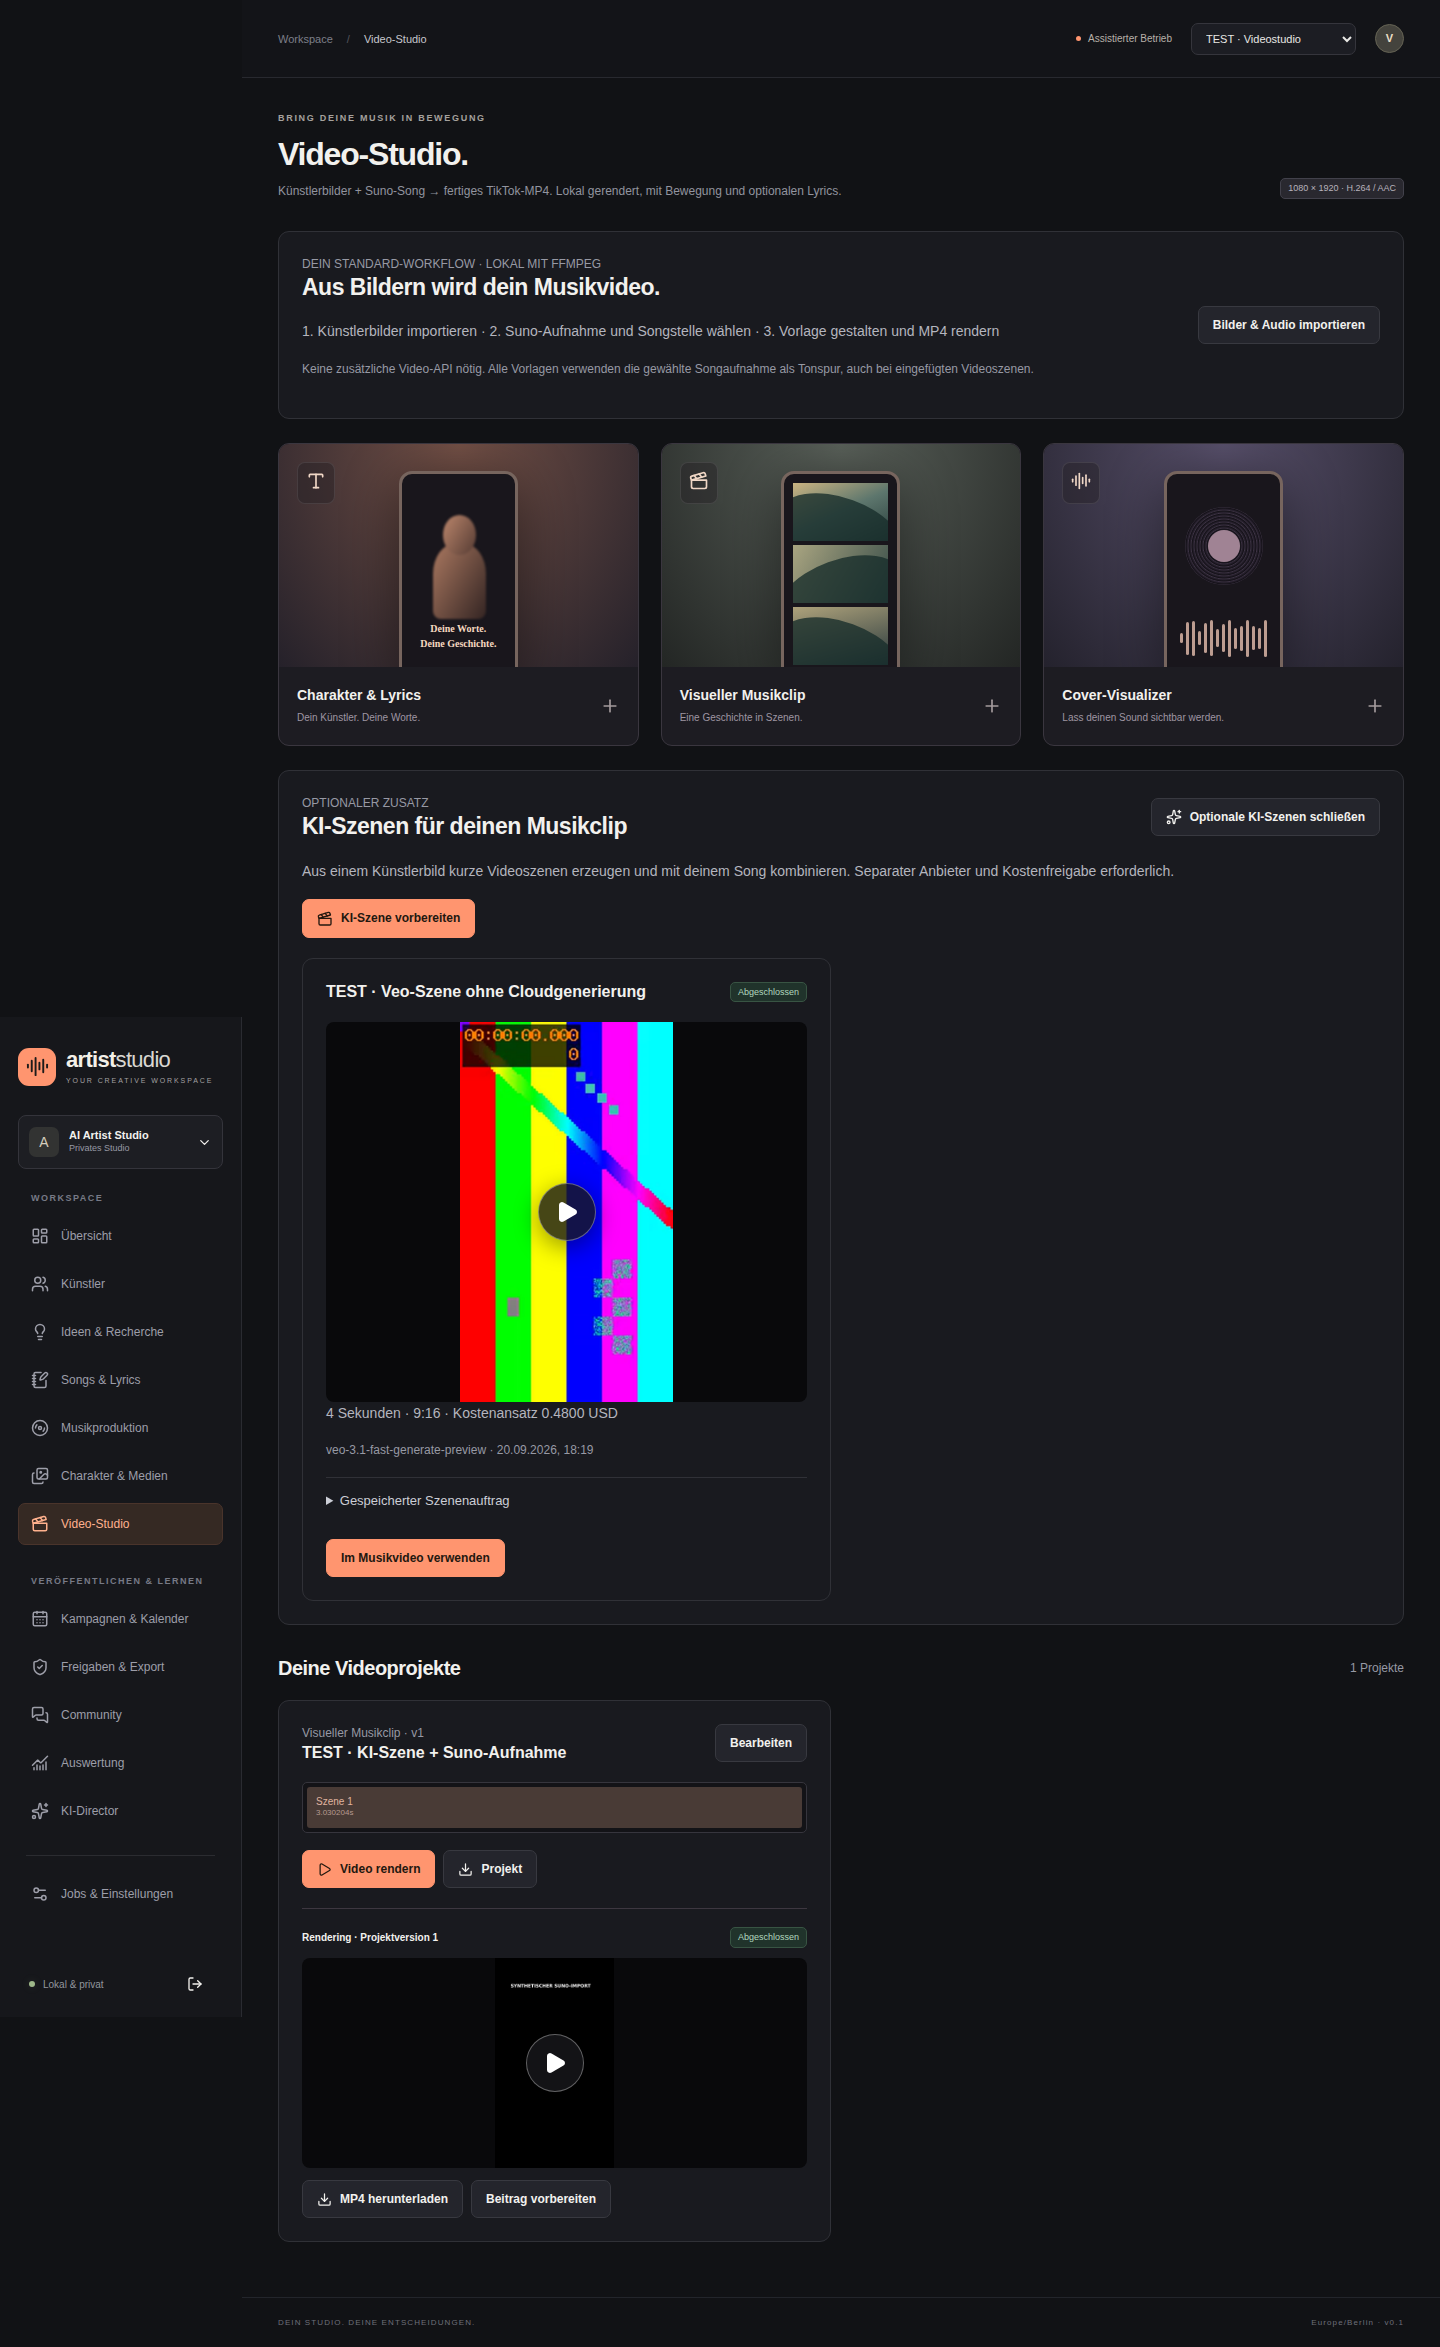
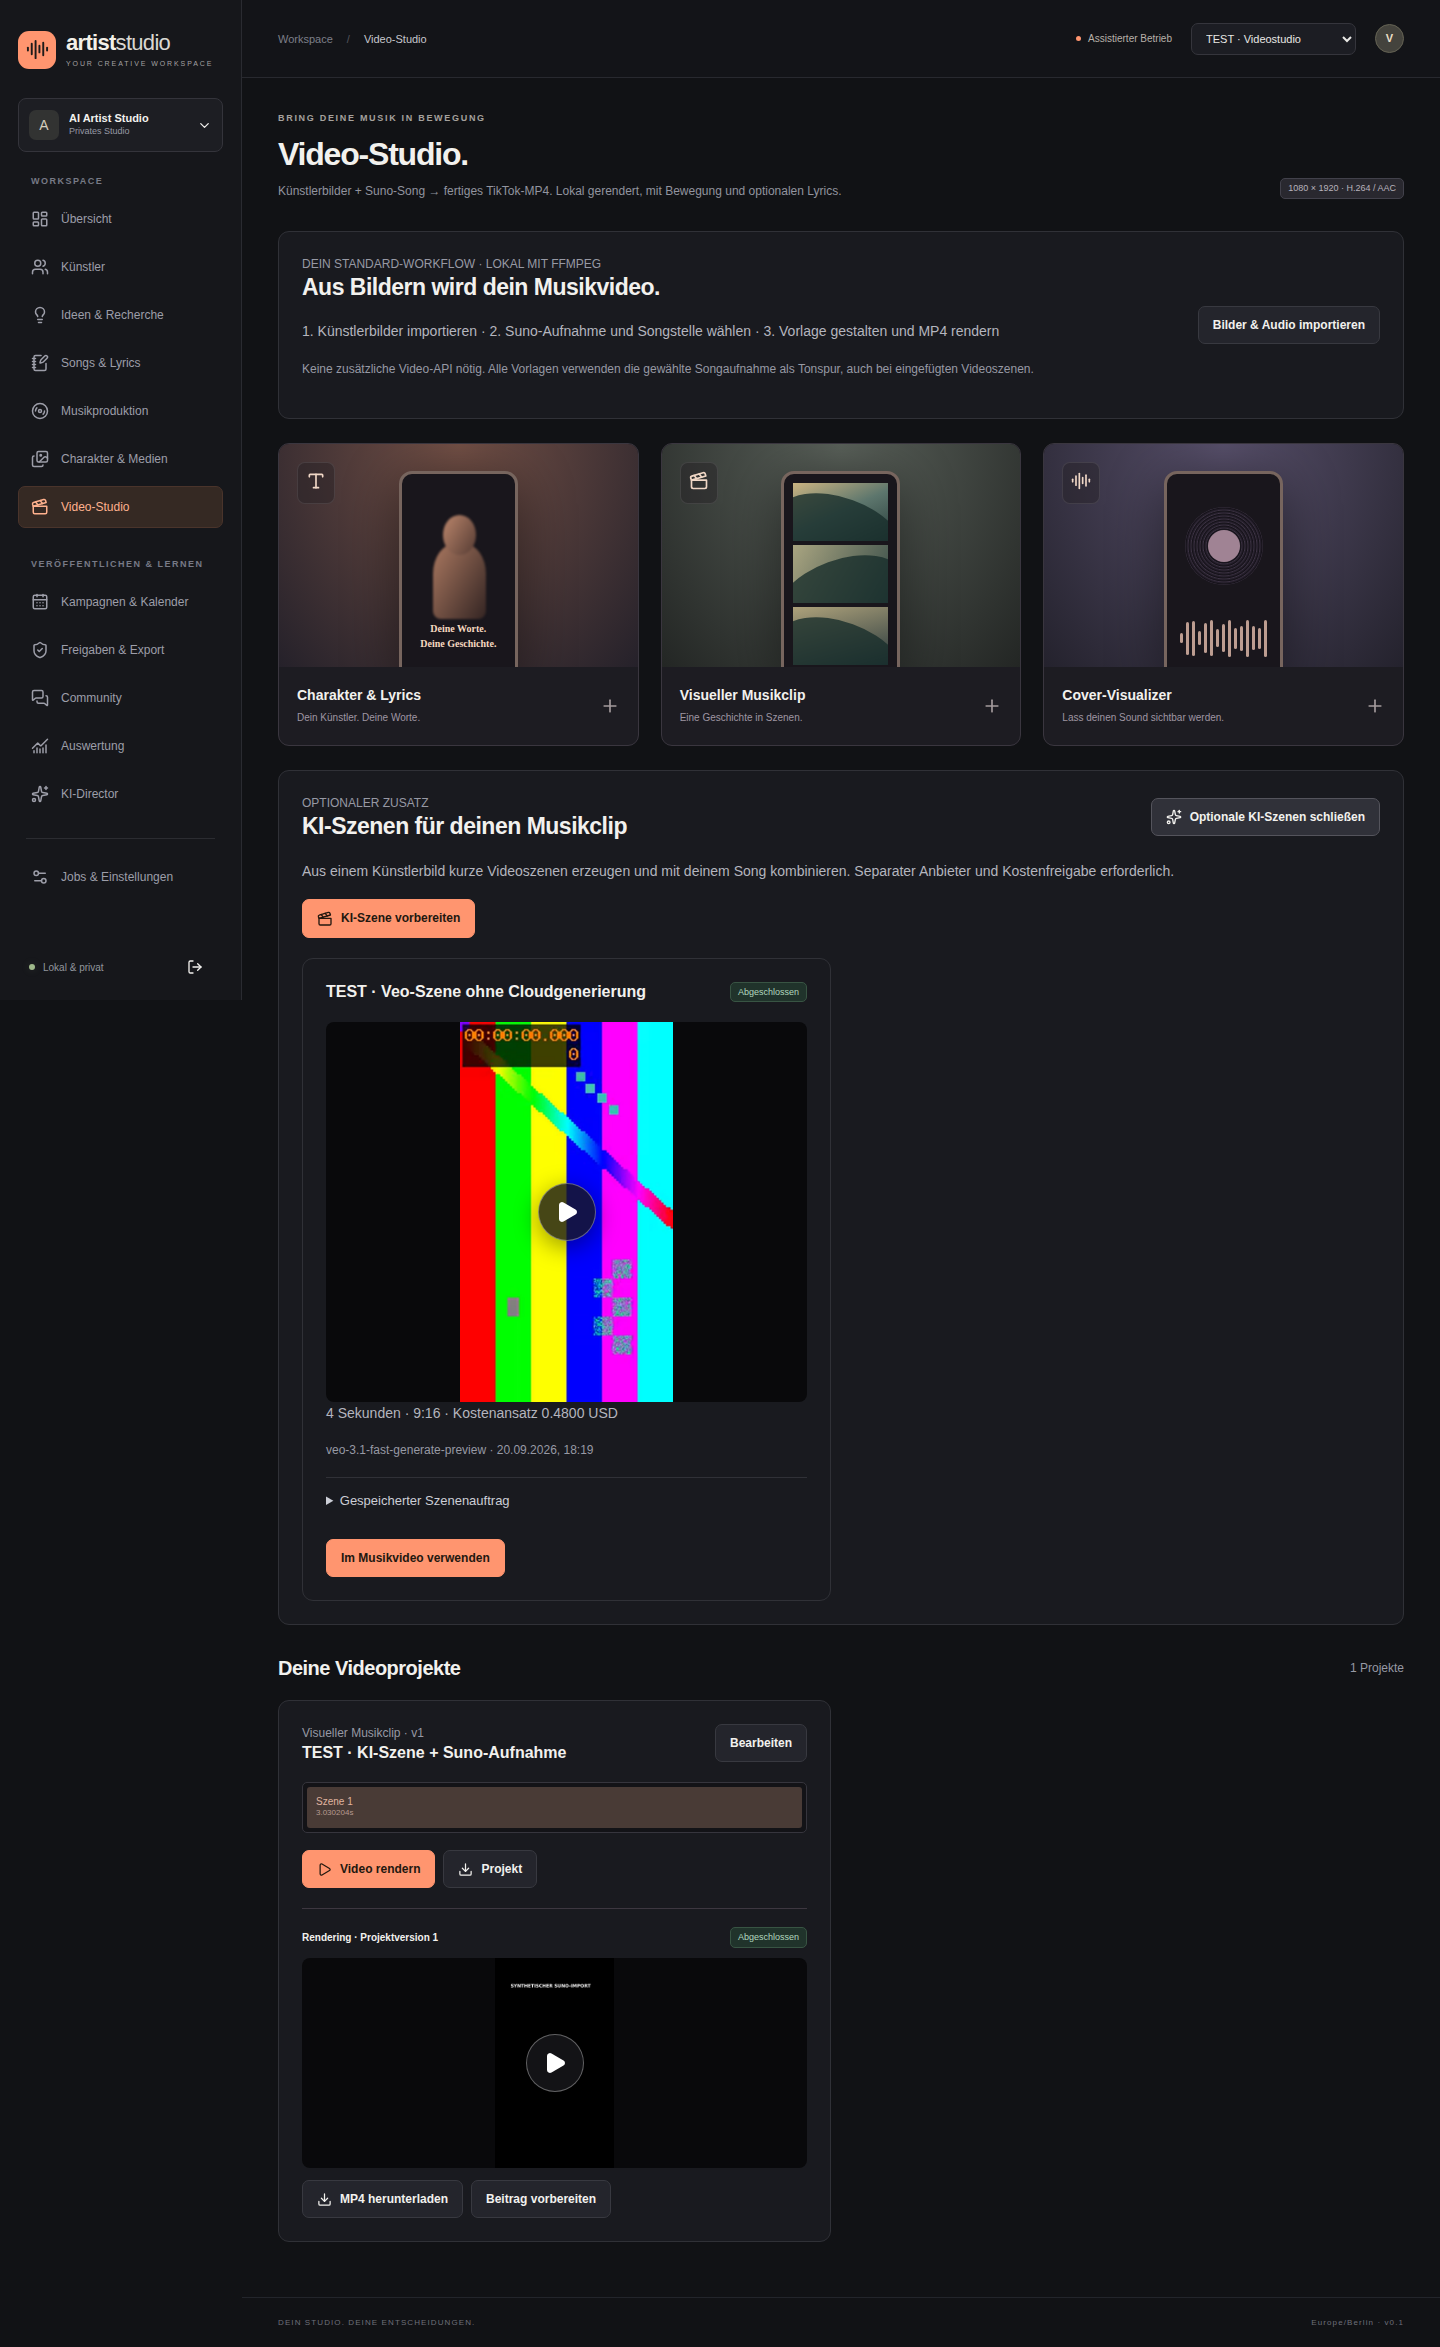
docs: record video deployment and final mobile verification

diff --git a/tests/e2e/veo.spec.ts b/tests/e2e/veo.spec.ts
@@ -158,6 +158,7 @@ test("FFmpeg-Hauptweg und optionale Veo-Szene: verbinden, freigeben, importieren
     await page.screenshot({
       path: "docs/screenshots/veo-guide-desktop.png",
       fullPage: true,
+      animations: "disabled",
     });
     await page.getByRole("button", { name: "Schließen", exact: true }).click();
     await page
@@ -207,11 +208,13 @@ test("FFmpeg-Hauptweg und optionale Veo-Szene: verbinden, freigeben, importieren
     await page.screenshot({
       path: "docs/screenshots/veo-approval-desktop.png",
       fullPage: true,
+      animations: "disabled",
     });
     await page.setViewportSize({ width: 390, height: 844 });
     await page.screenshot({
       path: "docs/screenshots/veo-approval-mobile.png",
       fullPage: true,
+      animations: "disabled",
     });
     expect(
       await page
@@ -288,11 +291,13 @@ test("FFmpeg-Hauptweg und optionale Veo-Szene: verbinden, freigeben, importieren
     await page.screenshot({
       path: "docs/screenshots/video-optional-desktop.png",
       fullPage: true,
+      animations: "disabled",
     });
     await page.setViewportSize({ width: 390, height: 844 });
     await page.screenshot({
       path: "docs/screenshots/video-optional-mobile.png",
       fullPage: true,
+      animations: "disabled",
     });
     expect(
       await page.evaluate(

diff --git a/docs/HANDOVER.md b/docs/HANDOVER.md
@@ -6,7 +6,7 @@ Stand **2026-09-20**. Implementierung im bestehenden Repository `/home/dennis/ai
 
 **https://artist.dorfspy.de** — produktiver Server `91.99.217.84`, Zugriff über Caddy/HTTPS. Hetzner-DNS A-Eintrag angelegt, Let’s-Encrypt-Zertifikat erfolgreich ausgestellt. Web, Worker und Runner laufen als eigene automatisch startende systemd-Dienste; die vorher vorhandene Anwendung bleibt in Betrieb.
 
-Die Produktionsdatenbank enthält noch kein Betreiberkonto und keine Testkünstler. Die erste Registrierung erfordert einen einmaligen Einrichtungscode. Der Code wurde ausschließlich lokal unter `.local/server-einrichtung.txt` (0600, gitignoriert) bereitgestellt und liegt serverseitig in der geschützten `/etc/artist-studio/web.env`. Danach eigene E-Mail und eigenes Passwort wählen. Weitere Registrierungen werden abgewiesen.
+Die erste Registrierung erfordert einen einmaligen Einrichtungscode. Der Code wurde ausschließlich lokal unter `.local/server-einrichtung.txt` (0600, gitignoriert) bereitgestellt und liegt serverseitig in der geschützten `/etc/artist-studio/web.env`. Danach eigene E-Mail und eigenes Passwort wählen. Weitere Registrierungen werden abgewiesen.
 
 Lokaler Start bleibt möglich: `npm run services:start`, `npm run db:migrate`, `npm run build`, `npm run studio:start` → http://127.0.0.1:3210. Stop: `npm run studio:stop`. [Betrieb](OPERATIONS.md), [Server-Provisionierung](../scripts/deploy/README.md).
 
@@ -18,7 +18,7 @@ Unter **Einstellungen → Provider & Konten**:
 - **Google verbinden:** tatsächliche interaktive Gemini-Anmeldung, offizieller Google-Link und Codefeld, anschließend Live-Texttest.
 - **Suno API verbinden:** eigener SunoAPI.org-Key, Guthabentest ohne Musikproduktion, verschlüsselte Speicherung, Modell und bestätigte Creditgrenzen. Anleitung als Modal direkt im Dashboard.
 
-Auf dem Server sind beide CLIs installiert und bis zum offiziellen Loginlink getestet. **Persönliche Konten sind dort noch nicht angemeldet.** Es wurden keine lokalen Authdateien auf den Server kopiert. Der Suno-Schlüssel fehlt ebenfalls noch. Callbackadresse `https://artist.dorfspy.de/api/suno/callback` wird bei HTTPS vorausgefüllt.
+Auf dem Server sind beide CLIs installiert und bis zum offiziellen Loginlink getestet. **Den aktuellen persönlichen Anmeldestatus zeigt das Dashboard.** Es wurden keine lokalen Authdateien auf den Server kopiert. Suno-Schlüssel werden ausschließlich vom Betreiber im Dashboard hinterlegt. Callbackadresse `https://artist.dorfspy.de/api/suno/callback` wird bei HTTPS vorausgefüllt.
 
 SunoAPI.org ist der vom Betreiber ausdrücklich gewählte Drittanbieter, mit eigenem Konto/Abrechnung. Er ist von der separaten offiziellen Suno Platform zu unterscheiden. [Suno-Anleitung](SUNO_API_SETUP.md), [CLI-Anleitung](CLI_LOGIN.md).
 
@@ -64,3 +64,7 @@ Historische Kernabnahme umfasst tatsächlichen Worker-SIGKILL/Wiederaufnahme sow
 ## Ergänzung: lokale Musikvideos und optionale KI-Szenen
 
 Das Video-Studio führt ausdrücklich durch **Künstlerbilder + Suno-MP3 → lokale FFmpeg-MP4**. Ein zusätzlicher aufklappbarer Bereich unterstützt Veo-Szenen mit Startbild, separater Verbindung und Kostenfreigabe. Fertige Szenen lassen sich direkt in die vorhandene Timeline übernehmen; ausschließlich die gewählte Songaufnahme wird als Tonspur exportiert. Einrichtung und Fehlerbehandlung: [VIDEO_PRODUCTION.md](VIDEO_PRODUCTION.md). Keine zusätzliche Bibliothek oder globale CLI-Konfiguration erforderlich; additive Migration `004_video_generation.sql`.
+
+### Video-Update auf dem Server
+
+Anwendungscode `45d62b3` auf **https://artist.dorfspy.de** installiert; Build als unprivilegierter Benutzer `artist-studio`, additive Migration 004 erfolgreich. Backup vor Update: `/var/lib/artist-studio/backups/video-update-1789914069`. Web/Worker/Runner aktiv, HTTPS-Health 200 und State ohne Session 401. Quellhashes zwischen Repository und Server stimmen überein. Lokales Studio ebenfalls wieder unter http://127.0.0.1:3210 gestartet. Kein kostenpflichtiger Veo-Liveauftrag ausgeführt.

diff --git a/docs/TEST_REPORT.md b/docs/TEST_REPORT.md
@@ -96,3 +96,9 @@ Nicht ausgeführt: echte kostenpflichtige Veo-Generation; kein Kundenschlüssel 
 Zusätzlicher eigenständiger Veo-Browsertest verwendet eine synthetische MP3 mit 3,030204 s Laufzeit. Er deckte einen vorhandenen HTML-`step`-Fehler auf: Audiolaufzeiten mit mehr Nachkommastellen blockierten „Projekt speichern“. Zeitfelder im Video-/Audioeditor akzeptieren jetzt beliebige gültige Sekundenwerte; serverseitige Grenzen bleiben aktiv. Der Test prüft ausdrücklich die Browservalidität beider Zeitfelder.
 
 Der eigenständig aus frischer Testdatenbank laufende Veo-/MP3-Browsertest wurde nach der Korrektur erneut ausgeführt: **1/1 bestanden (1,4 Minuten)**, inklusive automatisch erzeugtem Vorschaubild und realem FFmpeg-Rendering. Er ist separat mit `npm run test:e2e -- tests/e2e/veo.spec.ts` ausführbar und benötigt keinen CLI-Login.
+
+### Installierter Stand
+
+Abschließender eigenständiger MP3-/Veo-Browserlauf: **1/1 bestanden (38,3 s)**. Szenenvorschaubild und fertiges MP4 sind sichtbar. Screenshots deaktivieren CSS-Übergänge während der Aufnahme; eine gesonderte Browserprüfung bestätigt die vollständig ausgeblendete mobile Seitenleiste. Kein dauerhafter Layoutfehler.
+
+Server-Update (`45d62b3`): Datenbackup erstellt, Build als `artist-studio` bestanden, Migration 004 ausgeführt. HTTPS `/api/health` **200**, `/api/state` ohne Session **401**, alle drei systemd-Dienste **active**. SHA-256 von Szenen-Backend, Videooberfläche und Migration stimmt mit dem Repository überein. Keine Provider-Credentials übertragen oder paid Generierung ausgelöst. [Deploymentnachweis](test-evidence/video-deployment.json).

diff --git a/docs/IMPLEMENTATION_PLAN.md b/docs/IMPLEMENTATION_PLAN.md
@@ -69,6 +69,6 @@ Externer Blocker: kein Veo-API-Key und keine genehmigte kostenpflichtige Livegen
 - [x] 47/47 Unit-/Integrationstests sowie 4/4 vollständige Browsertests bestanden. Eigenständiger MP3-/Veo-Browsertest nach Korrektur der Zeitfelder zusätzlich bestanden.
 - [x] Backup/Restore mit 43 Tabellen, elf Dateihashes und PostgreSQL-Neustart geprüft.
 - [x] Einrichtungs-/Betriebsdokumentation, Integrationsmatrix und Testnachweise aktualisiert.
-- [ ] Geprüfte Quellen committen/pushen und Server aktualisieren.
+- [x] Geprüfte Quellen committed/gepusht (`45d62b3`) und auf dem bestehenden Server installiert. HTTPS/Health, Loginpflicht, Dienste und Quellhashes geprüft.
 
 Keine bezahlte Veo-Livegeneration; eigener Google-Key und ausdrückliche Auftragsfreigabe bleiben nötig.
